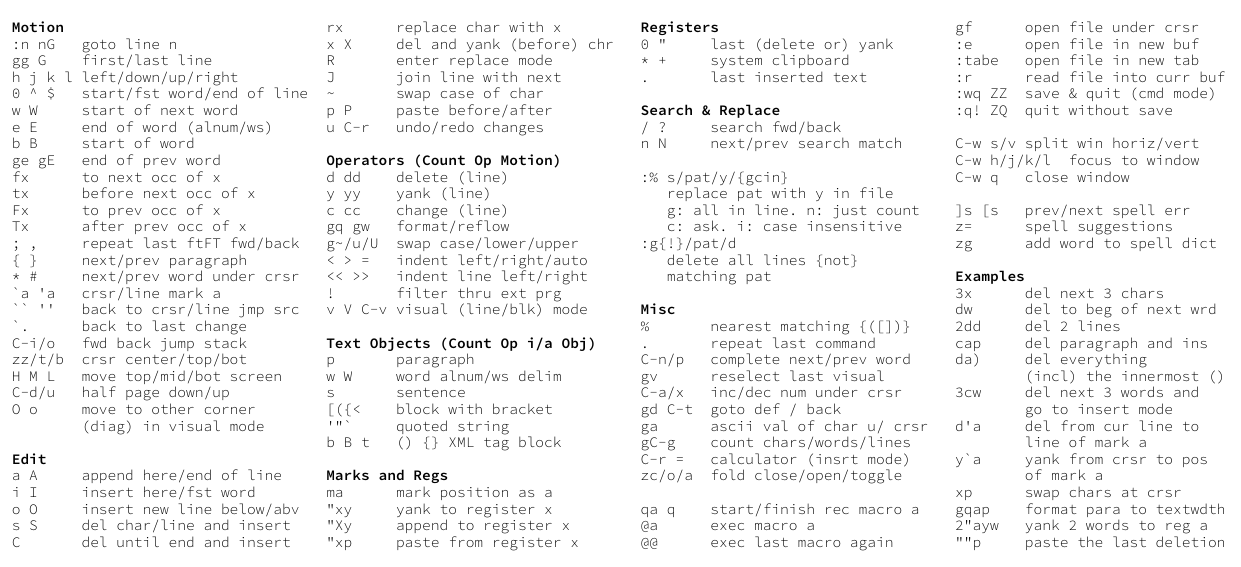
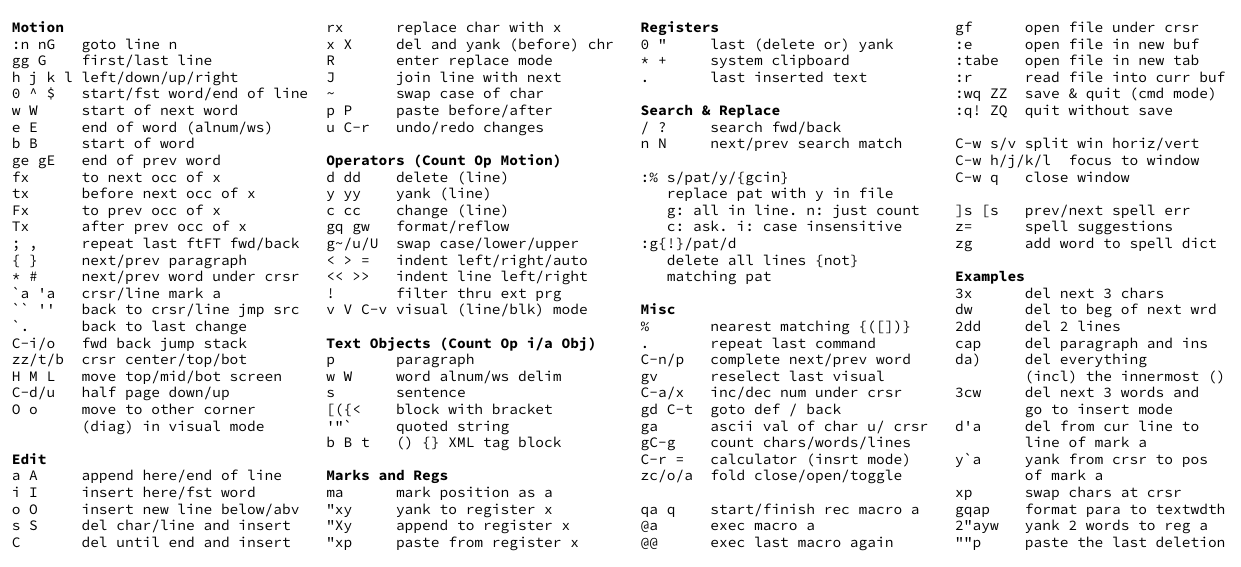
removed light/semibold

diff --git a/vim_cheat_mug.tex b/vim_cheat_mug.tex
@@ -3,7 +3,7 @@
 \usepackage[paperwidth=210mm,paperheight=96mm,vmargin=2mm,hmargin=2mm]{geometry}
 \usepackage{multicol}
 \usepackage{listings}
-\usepackage[light,semibold]{sourcecodepro}
+\usepackage{sourcecodepro}
 
 \pagestyle{empty}
 \parindent=0pt
